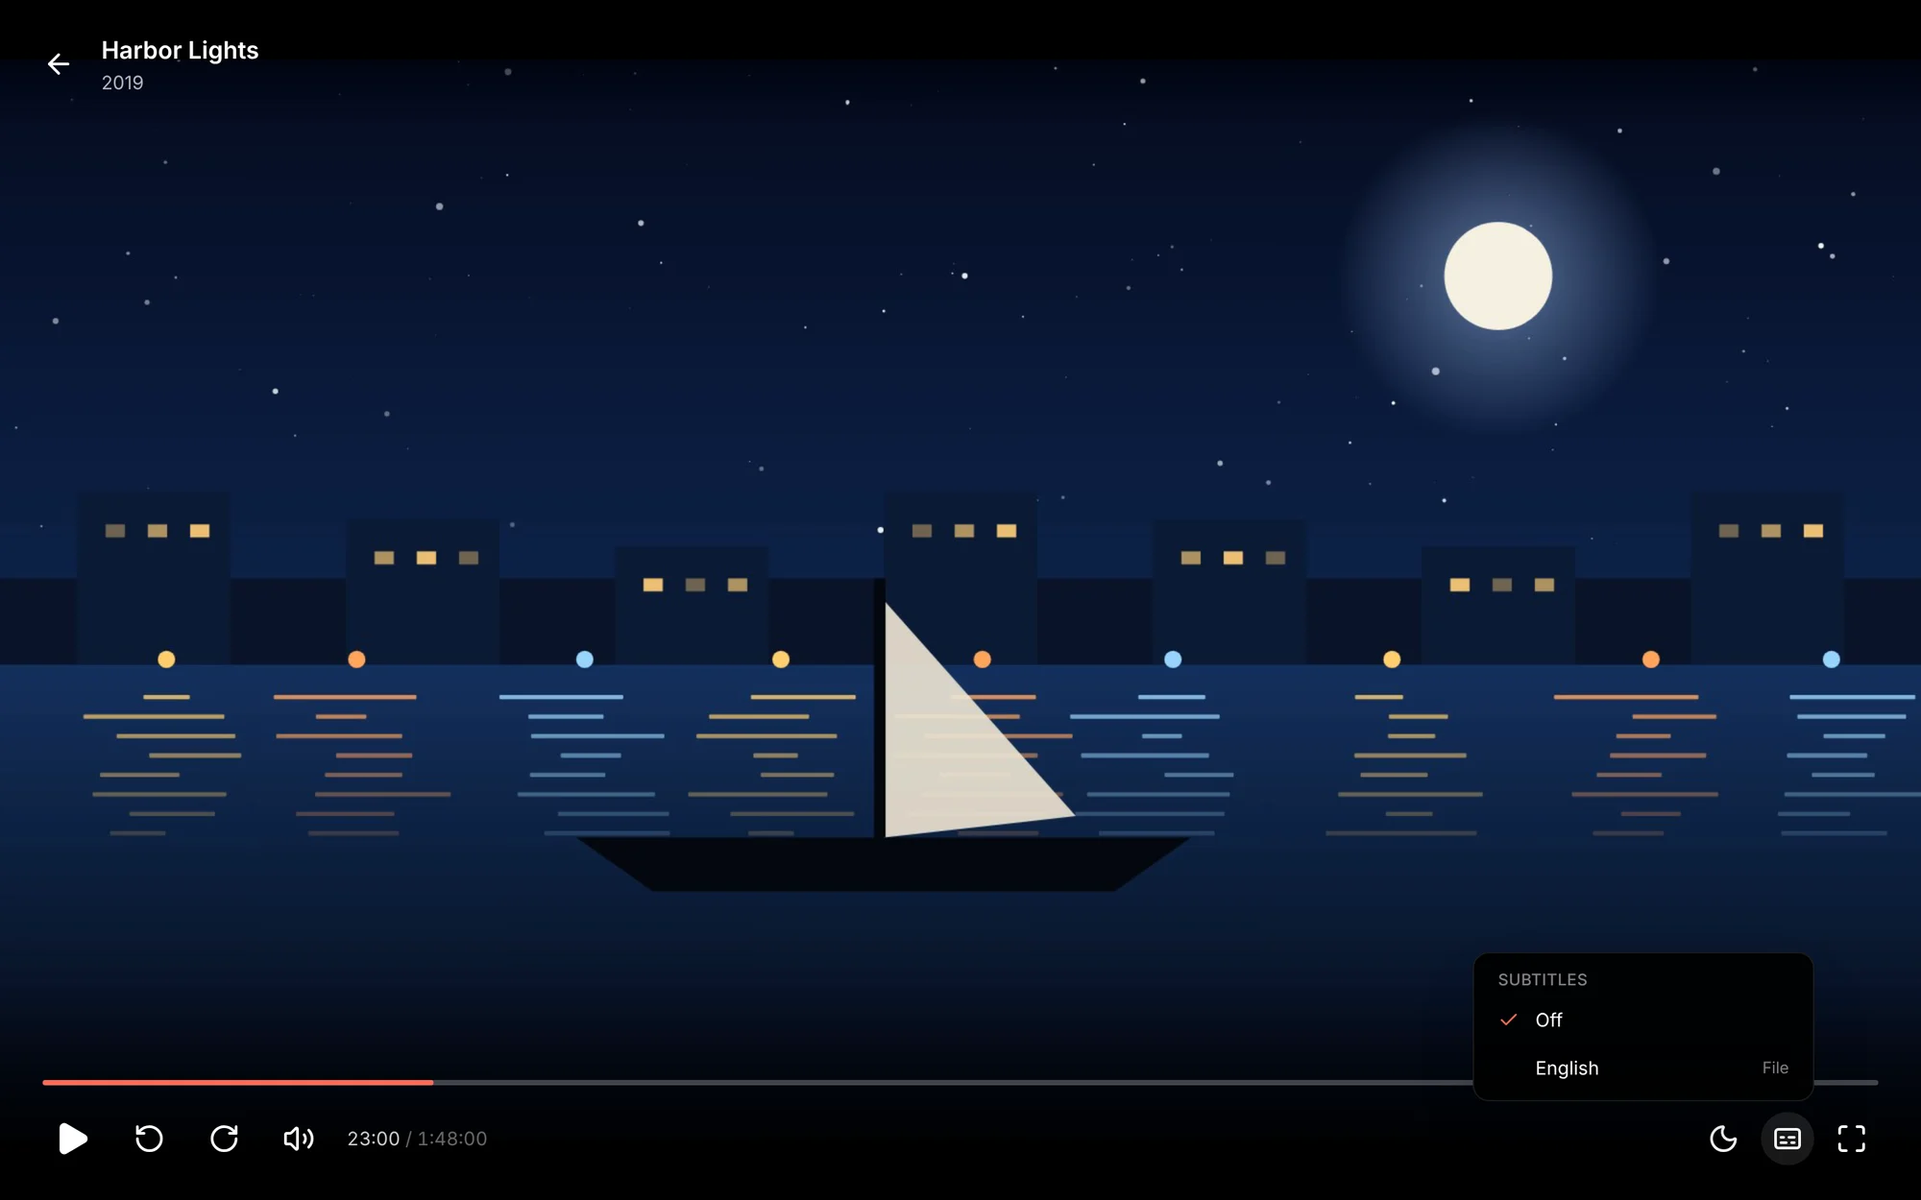
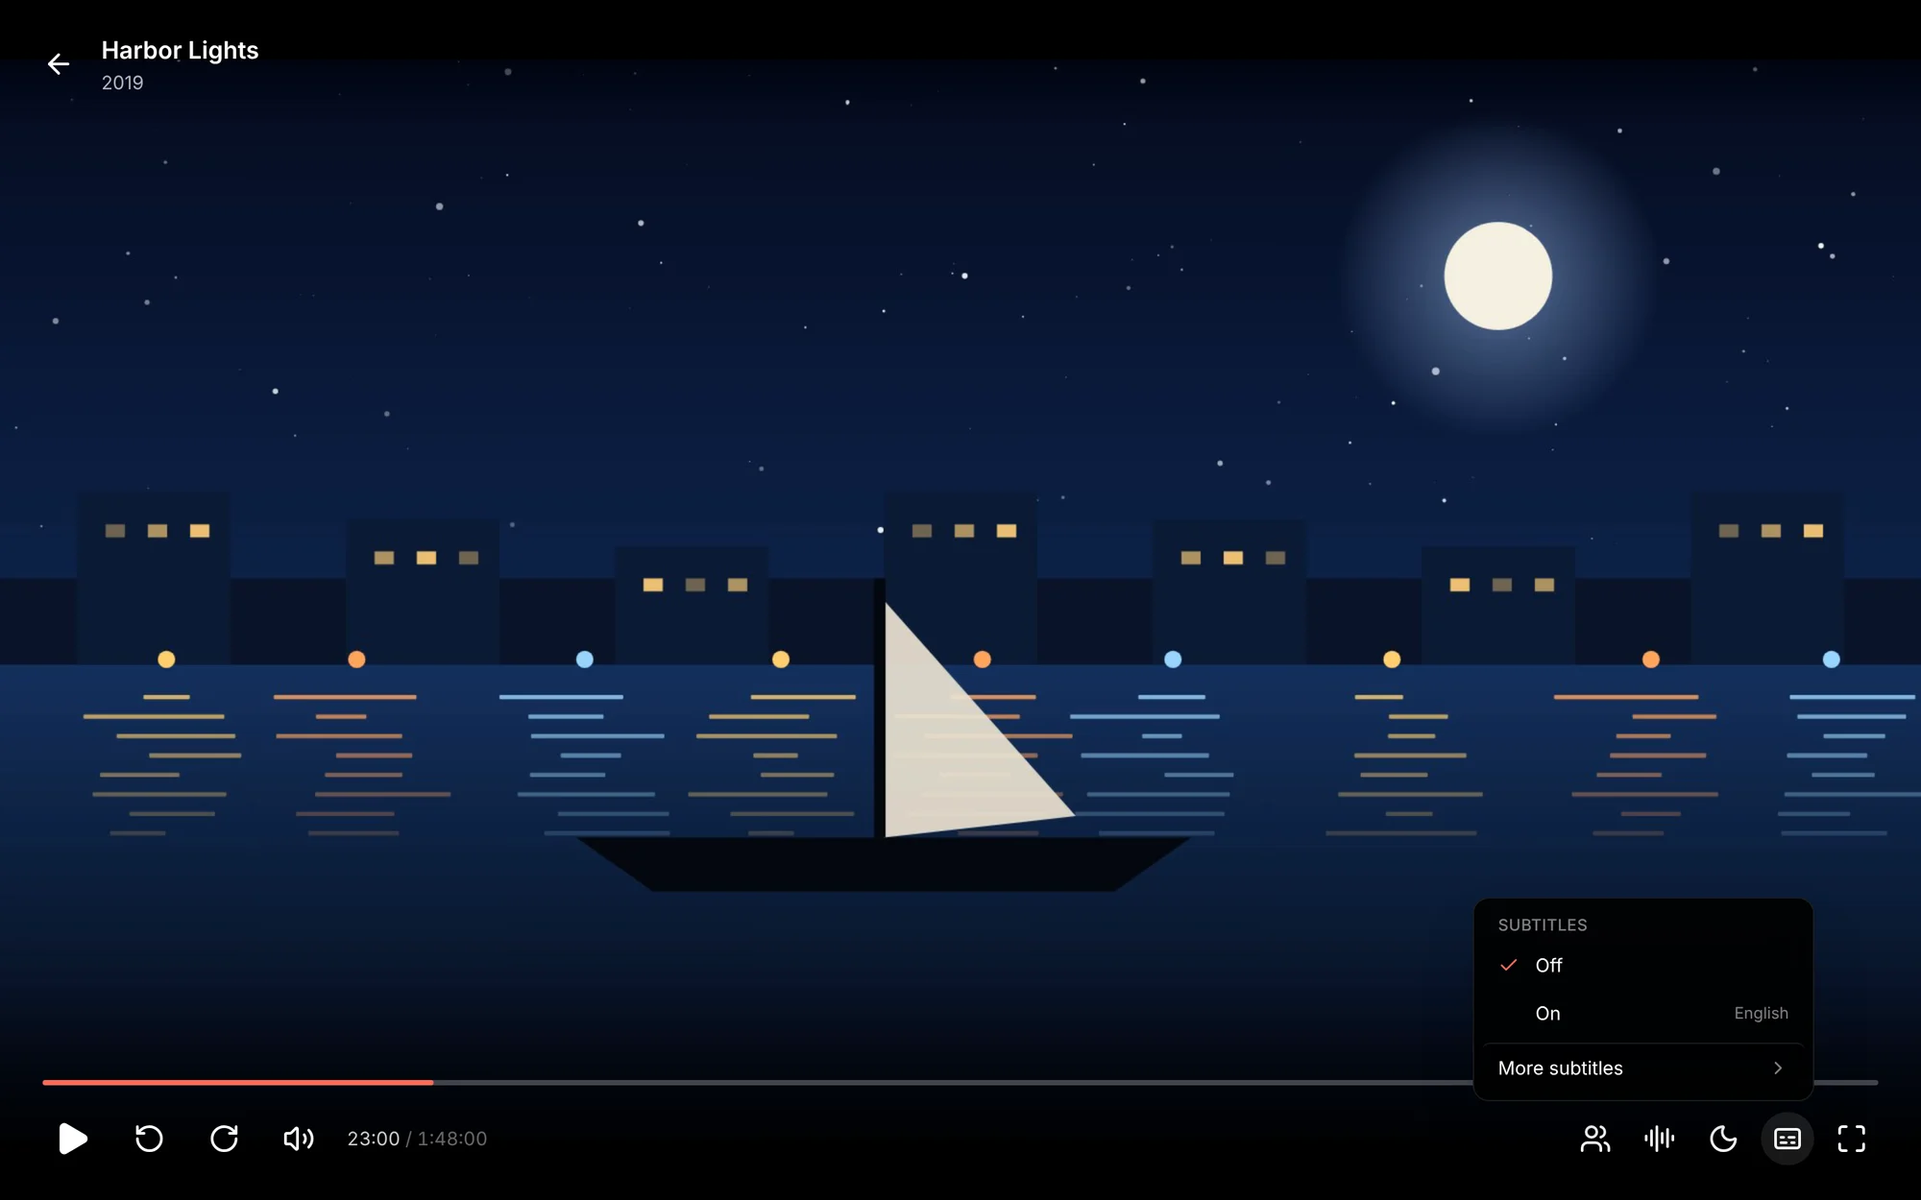
Subtitles On picks the best track, every track under More subtitles
The web player's subtitles menu opens with Off and On. On picks a full track
in the person's first language that has one, plain over SDH and text over
pictures, and keeps their languages as they are. Timing and Sync to audio
stay in the menu; every track and Find subtitles are under More subtitles.
The C key turns on the same pick.

Changed region(s): [[0.744, 0.7488, 0.961, 0.9048], [0.806, 0.936, 0.868, 0.9672], [0.899, 0.8424, 0.93, 0.8736]]

diff --git a/web/src/player/Subtitles.tsx b/web/src/player/Subtitles.tsx
@@ -1,4 +1,4 @@
-import { AudioLines, Captions, Check, LoaderCircle, Minus, Plus, Search, Undo2, X } from 'lucide-react'
+import { AudioLines, Captions, Check, ChevronLeft, ChevronRight, LoaderCircle, Minus, Plus, Search, Undo2, X } from 'lucide-react'
 import { Fragment, useEffect, useRef, useState } from 'react'
 import { useTranslation } from 'react-i18next'
 import type { SubtitleSync, SubtitleTrack } from '../api'
@@ -87,6 +87,9 @@ type MenuProps = {
   tracks: SubtitleTrack[]
   selected?: string
   onSelect: (track: SubtitleTrack | undefined) => void
+  /** The track On picks for the viewer, and turning it on. */
+  auto?: SubtitleTrack
+  onAuto: () => void
   onOpenChange: (open: boolean) => void
   /** Set when the viewer can look for more subtitles online. */
   find?: {
@@ -102,16 +105,17 @@ type MenuProps = {
   sync?: { state?: SubtitleSync; onSync: () => void; onUndo: () => void }
 }
 
-// SubtitleMenu is the captions button and its list of tracks, ending in
-// Find subtitles when the server can look for more online.
-export function SubtitleMenu({ tracks, selected, onSelect, onOpenChange, find, timing, sync }: MenuProps) {
+// SubtitleMenu is the captions button: Off, or On with the best track for
+// the viewer, then timing and syncing. Every track, and Find subtitles when
+// the server can look for more online, are under More subtitles.
+export function SubtitleMenu({ tracks, selected, onSelect, auto, onAuto, onOpenChange, find, timing, sync }: MenuProps) {
   const { t: tr } = useTranslation()
   const [open, setOpen] = useState(false)
-  const [finding, setFinding] = useState(false)
+  const [view, setView] = useState<'main' | 'more' | 'find'>('main')
   const ref = useRef<HTMLDivElement>(null)
   const toggle = (v: boolean) => {
     setOpen(v)
-    if (!v) setFinding(false)
+    if (!v) setView('main')
     onOpenChange(v)
   }
 
@@ -126,12 +130,12 @@ export function SubtitleMenu({ tracks, selected, onSelect, onOpenChange, find, t
     onSelect(t)
     toggle(false)
   }
-  const item = (key: string, label: string, active: boolean, t: SubtitleTrack | undefined, note?: string) => (
+  const item = (key: string, label: string, active: boolean, t: SubtitleTrack | undefined, note?: string, onClick = () => choose(t)) => (
     <li key={key} className="flex items-center">
       <button
         role="menuitemradio"
         aria-checked={active}
-        onClick={() => choose(t)}
+        onClick={onClick}
         className="flex min-w-0 flex-1 items-center gap-3 rounded-md px-3 py-2 text-start text-sm hover:bg-white/10"
       >
         <Check className={`size-4 shrink-0 ${active ? 'text-accent' : 'invisible'}`} />
@@ -152,6 +156,8 @@ export function SubtitleMenu({ tracks, selected, onSelect, onOpenChange, find, t
   )
   const note = (t: SubtitleTrack) =>
     t.burnIn ? tr('player.convertsVideo') : t.found ? tr('player.findSubtitles.online') : t.external ? tr('player.file') : undefined
+  const current = tracks.find((t) => t.id === selected)
+  const row = 'flex w-full items-center gap-3 rounded-md px-3 py-2 text-start text-sm hover:bg-white/10'
 
   return (
     <div ref={ref} className="relative">
@@ -166,23 +172,49 @@ export function SubtitleMenu({ tracks, selected, onSelect, onOpenChange, find, t
       </button>
       {open && (
         <div
-          className={`absolute end-0 bottom-full mb-2 rounded-xl border border-white/10 bg-black/90 p-1.5 shadow-2xl backdrop-blur ${finding ? '' : 'w-64'}`}
+          className={`absolute end-0 bottom-full mb-2 rounded-xl border border-white/10 bg-black/90 p-1.5 shadow-2xl backdrop-blur ${view === 'find' ? '' : 'w-64'}`}
         >
-          {finding && find ? (
+          {view === 'find' && find ? (
             <FindSubtitles
               itemId={find.itemId}
-              onBack={() => setFinding(false)}
+              onBack={() => setView('more')}
               onAdded={(t) => {
                 find.onAdded(t)
                 toggle(false)
               }}
             />
-          ) : (
+          ) : view === 'more' ? (
             <>
-              <div className="px-3 pt-1.5 pb-1 text-xs font-medium tracking-wide text-white/50 uppercase">{tr('file.subtitles')}</div>
+              <button
+                onClick={() => setView('main')}
+                className="flex w-full items-center gap-2 rounded-md px-2 py-1.5 text-start text-xs font-medium tracking-wide text-white/60 uppercase hover:bg-white/10"
+                title={tr('common:subtitleMenu.back')}
+              >
+                <ChevronLeft className="size-4 rtl:rotate-180" />
+                {tr('common:subtitleMenu.more')}
+              </button>
               <ul role="menu" className="max-h-72 overflow-y-auto">
                 {item('off', tr('player.off'), !selected, undefined)}
                 {tracks.map((t) => item(t.id, subtitleLabel(t), t.id === selected, t, note(t)))}
+              </ul>
+              {find && (
+                <button role="menuitem" onClick={() => setView('find')} className={`mt-1 border-t border-white/10 ${row}`}>
+                  <Search className="size-4 shrink-0" />
+                  <span className="min-w-0 flex-1 truncate">{tr('player.findSubtitles.open')}</span>
+                </button>
+              )}
+            </>
+          ) : (
+            <>
+              <div className="px-3 pt-1.5 pb-1 text-xs font-medium tracking-wide text-white/50 uppercase">{tr('file.subtitles')}</div>
+              <ul role="menu">
+                {item('off', tr('player.off'), !selected, undefined)}
+                {auto &&
+                  item('on', tr('common:subtitleMenu.on'), selected === auto.id, undefined, subtitleLabel(auto), () => {
+                    onAuto()
+                    toggle(false)
+                  })}
+                {current && current.id !== auto?.id && item(current.id, subtitleLabel(current), true, current, note(current))}
               </ul>
               {timing && (
                 <div className="mt-1 border-t border-white/10 px-3 pt-2 pb-1.5">
@@ -214,16 +246,10 @@ export function SubtitleMenu({ tracks, selected, onSelect, onOpenChange, find, t
                   {sync && <SyncRow {...sync} />}
                 </div>
               )}
-              {find && (
-                <button
-                  role="menuitem"
-                  onClick={() => setFinding(true)}
-                  className="mt-1 flex w-full items-center gap-3 rounded-md border-t border-white/10 px-3 py-2 text-start text-sm hover:bg-white/10"
-                >
-                  <Search className="size-4 shrink-0" />
-                  <span className="min-w-0 flex-1 truncate">{tr('player.findSubtitles.open')}</span>
-                </button>
-              )}
+              <button role="menuitem" aria-haspopup="menu" onClick={() => setView('more')} className={`mt-1 border-t border-white/10 ${row}`}>
+                <span className="min-w-0 flex-1 truncate">{tr('common:subtitleMenu.more')}</span>
+                <ChevronRight className="size-4 shrink-0 text-white/50 rtl:rotate-180" />
+              </button>
             </>
           )}
         </div>

diff --git a/web/src/pages/Watch.tsx b/web/src/pages/Watch.tsx
@@ -12,7 +12,7 @@ import { canDirectPlay } from '../player/direct'
 import { currentPlays, playsQuery, repackages } from '../player/plays'
 import { savedPreference, savePreference, SubtitleMenu, SubtitleOverlay, syncStatus } from '../player/Subtitles'
 import { useStyledSubtitles } from '../player/StyledSubtitles'
-import { afterPick, audioLanguageOf, fromOldChoice, pickSubtitles, saveSubtitleTiming, subtitleTiming, type SubtitlePrefs } from '../player/subtitlePrefs'
+import { afterAuto, afterPick, audioLanguageOf, autoSubtitles, fromOldChoice, pickSubtitles, saveSubtitleTiming, subtitleTiming, type SubtitlePrefs } from '../player/subtitlePrefs'
 import { UpNextCard, type UpNextMode } from '../player/UpNext'
 import { COUNTDOWN_SECONDS, stillWatching, upNextAt } from '../player/autoplay'
 import { creditsEnd, creditsOf, inCredits } from '../player/credits'
@@ -548,6 +548,14 @@ function Player({ id }: { id: number }) {
     api.setPlayback({ subtitles: next }).catch(() => {})
   }
 
+  // Turning subtitles On keeps the person's languages as they are.
+  const autoSub = item ? autoSubtitles(item.subtitles ?? [], subPrefs, { appLanguage: i18n.language, audioLanguage: audioLanguageOf(item) }) : undefined
+  const rememberAuto = () => {
+    const next = afterAuto(subPrefs)
+    qc.setQueryData<typeof prefs>(['playback'], (p) => (p ? { ...p, subtitles: next } : p))
+    api.setPlayback({ subtitles: next }).catch(() => {})
+  }
+
   // Picture subtitles are part of the video, so switching to or from one
   // restarts playback at the same spot.
   const selectSub = (t: SubtitleTrack | undefined, remember = true) => {
@@ -837,7 +845,12 @@ function Player({ id }: { id: number }) {
           if (video.current) video.current.muted = !video.current.muted
           break
         case 'c':
-          if (item?.subtitles?.length) selectSub(sub ? undefined : (lastSub.current ?? item.subtitles.find((t) => !t.burnIn) ?? item.subtitles[0]))
+          if (sub) selectSub(undefined)
+          else if (lastSub.current) selectSub(lastSub.current)
+          else if (autoSub) {
+            selectSub(autoSub, false)
+            rememberAuto()
+          }
           break
         case '[':
         case ']':
@@ -1393,6 +1406,11 @@ function Player({ id }: { id: number }) {
                   tracks={item.subtitles ?? []}
                   selected={sub?.id}
                   onSelect={selectSub}
+                  auto={autoSub}
+                  onAuto={() => {
+                    selectSub(autoSub, false)
+                    rememberAuto()
+                  }}
                   timing={sub && !sub.burnIn ? { seconds: subTiming, onChange: changeTiming } : undefined}
                   sync={sub && !sub.burnIn ? { state: sub.sync, onSync: syncSub, onUndo: unsyncSub } : undefined}
                   onOpenChange={(open) => {

diff --git a/web/src/player/subtitlePrefs.test.ts b/web/src/player/subtitlePrefs.test.ts
@@ -1,6 +1,6 @@
 import { describe, expect, it } from 'vitest'
 import type { SubtitleTrack } from '../api'
-import { afterPick, defaultSubtitles, fromOldChoice, pickSubtitles, subtitleLook } from './subtitlePrefs'
+import { afterAuto, afterPick, autoSubtitles, defaultSubtitles, fromOldChoice, pickSubtitles, subtitleLook } from './subtitlePrefs'
 
 const t = (id: string, language: string, extra: Partial<SubtitleTrack> = {}): SubtitleTrack => ({ id, label: id, language, codec: 'subrip', ...extra })
 const en = t('en', 'en')
@@ -31,6 +31,17 @@ describe('subtitle choices', () => {
     expect(afterPick(defaultSubtitles, undefined, 'en').mode).toBe('off')
     expect(afterPick({ mode: 'off', languages: ['en'] }, fr, 'en')).toMatchObject({ mode: 'always', languages: ['fr', 'en'] })
     expect(afterPick({ mode: 'always', languages: ['fr'] }, forcedEn, 'en').mode).toBe('forced')
+  })
+  it('On picks the best full track, whatever the mode', () => {
+    expect(autoSubtitles(tracks, { mode: 'off', languages: ['de', 'fr'] }, { appLanguage: 'en' })?.id).toBe('fr')
+    expect(autoSubtitles(tracks, { mode: 'forced' }, { appLanguage: 'en' })?.id).toBe('en')
+    const ja = t('ja', 'ja', { burnIn: true })
+    const de = t('de', 'de', { default: true })
+    expect(autoSubtitles([ja, t('es', 'es')], { mode: 'off' }, { appLanguage: 'en' })?.id).toBe('es')
+    expect(autoSubtitles([ja, de], { mode: 'off' }, { appLanguage: 'en' })?.id).toBe('de')
+    expect(autoSubtitles([forcedEn], { mode: 'off' }, { appLanguage: 'fr' })?.id).toBe('forced-en')
+    expect(afterAuto({ mode: 'off', languages: ['fr', 'en'] })).toEqual({ mode: 'always', languages: ['fr', 'en'] })
+    expect(afterAuto({ mode: 'foreign' }).mode).toBe('foreign')
   })
   it('reads the old browser choice', () => {
     expect(fromOldChoice('off').mode).toBe('off')

diff --git a/web/src/player/subtitlePrefs.ts b/web/src/player/subtitlePrefs.ts
@@ -80,6 +80,29 @@ export function pickSubtitles(
 }
 
 /**
+ * autoSubtitles is the track On chooses: a full track in the person's first
+ * language that has one, else the file's own pick, else forced lines.
+ */
+export function autoSubtitles(
+  tracks: SubtitleTrack[],
+  p: SubtitlePrefs,
+  o: { appLanguage: string; audioLanguage?: string },
+): SubtitleTrack | undefined {
+  const full = tracks.filter((t) => !t.forced)
+  return (
+    fullTrack(tracks, wantedLanguages(p, o.appLanguage)) ??
+    full.find((t) => t.default) ??
+    [...full].sort(better)[0] ??
+    forcedTrack(tracks, o.audioLanguage)
+  )
+}
+
+/** afterAuto is what turning subtitles On says about next time: on, in the same languages. */
+export function afterAuto(p: SubtitlePrefs): SubtitlePrefs {
+  return { ...p, mode: p.mode === 'foreign' ? 'foreign' : 'always' }
+}
+
+/**
  * afterPick is what a pick in the player says about what the person wants
  * next time: Off turns subtitles off, a full track turns them on in its
  * language first, and a forced track goes back to forced lines only.

diff --git a/docs/guide/watching/playing.md b/docs/guide/watching/playing.md
@@ -28,9 +28,11 @@ Hover over the bar, or drag it, to see a picture of that moment above it before 
 
 ## Subtitles
 
-The subtitles button lists every subtitle track: the ones inside the file and the [files next to it](/docs/getting-started/organizing-media/#subtitles). Pick one, or **Off**.
+<!-- since: v0.3.0 -->
+The subtitles button opens with **Off** and **On**. **On** picks the best track for you and shows which one: a full track in the first of [your languages](#when-subtitles-come-on) that the file has, plain over SDH, and text over pictures. **More subtitles** lists every track, the ones inside the file and the [files next to it](/docs/getting-started/organizing-media/#subtitles), for when you want a particular one.
+<!-- /since -->
 
-![The subtitles menu: Off and English](../images/player-subtitles.webp)
+![The subtitles menu: Off, On with English, and More subtitles](../images/player-subtitles.webp)
 
 Matinee remembers the language you pick and uses it again for the next episode and the next film. Text subtitles (SRT, WebVTT, ASS) are drawn by the player, so they stay sharp at any size. Picture subtitles from Blu-rays and DVDs can't be drawn that way, so Matinee burns them into the picture while it converts the video.
 
@@ -39,7 +41,7 @@ In the [phone and TV apps](/docs/apps/phone-and-tv/#watching-on-a-tv), subtitles
 <!-- /since -->
 
 <!-- since: v0.1.10 -->
-No subtitles in your language? Once an admin sets up subtitle search, **Find subtitles…** at the bottom of the menu looks for them online. See [Finding subtitles](/docs/watching/finding-subtitles/).
+No subtitles in your language? Once an admin sets up subtitle search, **Find subtitles…** under **More subtitles** looks for them online. See [Finding subtitles](/docs/watching/finding-subtitles/).
 <!-- /since -->
 
 <!-- since: v0.3.0 -->
@@ -47,7 +49,7 @@ No subtitles in your language? Once an admin sets up subtitle search, **Find sub
 
 Anime and fan-subtitled releases often come with ASS or SSA subtitles: signs placed over the picture, colors, karaoke, and fonts carried inside the MKV. The web player draws these the way they were made, with the file's own fonts, while the video still plays as it is. Your size and color choices below don't change them, since their look is part of the release. A browser that can't draw them shows the words as plain subtitles instead.
 
-In the [phone and TV apps](/docs/apps/phone-and-tv/), the subtitles menu lists a styled copy of these tracks, marked **Converts video**: the server draws the styling into the picture as it streams.
+In the [phone and TV apps](/docs/apps/phone-and-tv/), **More subtitles** lists a styled copy of these tracks, marked **Converts video**: the server draws the styling into the picture as it streams.
 <!-- /since -->
 
 <!-- since: v0.3.0 -->

diff --git a/docs/guide/watching/finding-subtitles.md b/docs/guide/watching/finding-subtitles.md
@@ -13,7 +13,7 @@ An admin turns this on once with a free key; see [Setting up subtitle search](#s
 ## Finding subtitles in the player
 
 1. Open the subtitles menu in the player.
-2. Pick **Find subtitles…** at the bottom of the list.
+2. Pick **More subtitles**, then **Find subtitles…** at the bottom of the list.
 3. Matinee looks right away, in the language you last watched subtitles in (or the language Matinee is in). Pick another language at the top to look in that one.
 4. Pick a result. Matinee fetches it, adds it to the video and turns it on.
 
@@ -33,11 +33,11 @@ Kids profiles don't see **Find subtitles…**.
 
 ### On phones and TVs
 
-In the [phone and TV apps](/docs/apps/phone-and-tv/#watching-on-a-tv), **Find subtitles…** is at the bottom of the subtitles list too. On a TV, press down on the remote while something plays, go to **Subtitles** and pick **Find subtitles…**. The first line says which language Matinee is looking in; select it to pick another. Select a result to add it and turn it on.
+In the [phone and TV apps](/docs/apps/phone-and-tv/#watching-on-a-tv), **Find subtitles…** is at the bottom of **More subtitles** too. On a TV, press down on the remote while something plays, go to **Subtitles**, then **More subtitles**, and pick **Find subtitles…**. The first line says which language Matinee is looking in; select it to pick another. Select a result to add it and turn it on.
 
 ### Removing subtitles you added
 
-If subtitles turn out to be wrong, remove them: in the browser, open the subtitles menu and click the **×** next to them. Admins can remove any subtitles found online; everyone else can remove the ones they added. Subtitles inside the file or next to it can't be removed this way.
+If subtitles turn out to be wrong, remove them: in the browser, open the subtitles menu, then **More subtitles**, and click the **×** next to them. Admins can remove any subtitles found online; everyone else can remove the ones they added. Subtitles inside the file or next to it can't be removed this way.
 
 ## Setting up subtitle search
 

diff --git a/docs/guide/apps/phone-and-tv.md b/docs/guide/apps/phone-and-tv.md
@@ -110,10 +110,10 @@ While an episode's intro plays, **Skip intro** shows in the bottom corner, ready
 
 ![The player on a TV, with subtitles on and the buttons under the bar](../images/app-tv-player.webp)
 
-On the buttons, left and right move between them and select opens one. **Audio** lists every sound track in the file, by language, with commentaries and audio description marked and the format of each (such as Dolby TrueHD · Atmos · 7.1). **Subtitles** lists the subtitles in the file and the [files next to it](/docs/getting-started/organizing-media/#subtitles), and **Off**. The one in use has a check, and the button says what's on.
+On the buttons, left and right move between them and select opens one. **Audio** lists every sound track in the file, by language, with commentaries and audio description marked and the format of each (such as Dolby TrueHD · Atmos · 7.1). **Subtitles** has **Off** and **On**, which picks the best track in your languages and says which (from version 1.0.27). **More subtitles** lists every subtitle track in the file and the [files next to it](/docs/getting-started/organizing-media/#subtitles). The one in use has a check, and the button says what's on.
 
 <!-- since: v0.1.10 -->
-At the bottom of **Subtitles**, **Find subtitles…** looks for subtitles online when the server has [subtitle search](/docs/watching/finding-subtitles/) set up. Select a result to add it to the video and turn it on.
+At the bottom of **More subtitles**, **Find subtitles…** looks for subtitles online when the server has [subtitle search](/docs/watching/finding-subtitles/) set up. Select a result to add it to the video and turn it on.
 <!-- /since -->
 
 ![Picking the audio track on a TV](../images/app-tv-audio.webp)
